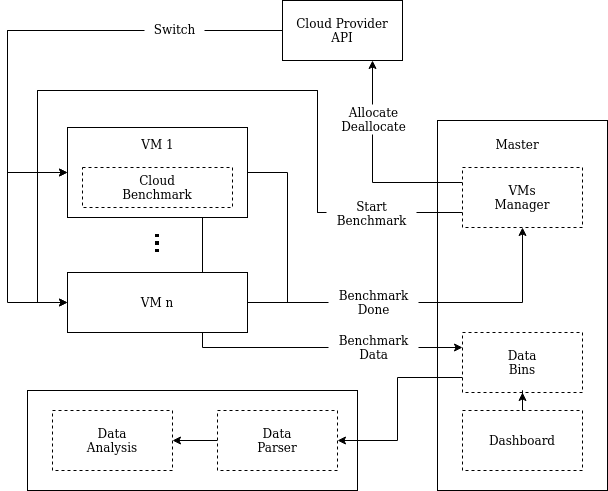
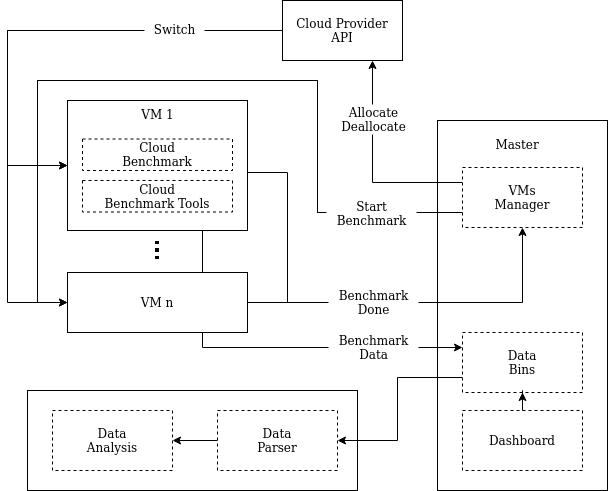
remove folders during init

Changed region(s): [[0.125, 0.2749, 0.375, 0.4888], [0.0938, 0.1833, 0.4062, 0.2444], [0.0312, 0.336, 0.125, 0.3666]]

diff --git a/README.md b/README.md
@@ -1,7 +1,8 @@
 # Cloud Performance
 ![System architecture](CloudPerformance.png)
-
 Run and collect benchmarks on the cloud
+
+This tool is composed by the following components.
 
 ### VMs manager
 - Turn on VMs
@@ -14,12 +15,14 @@ Run and collect benchmarks on the cloud
 - Analyze data
 
 ### Cloud benchmark
-Run benchmarks and send data to the data bins
-
+Run benchmarks reading a configuration from a file and save the result
 [repo](https://github.com/NicholasRasi/cloud-benchmark)
+
+### Cloud benchmark tools
+Send the result to the database and notify the vms manager
+[repo](https://github.com/NicholasRasi/cloud-benchmark-tools)
 
 ### Data bins
 Collect data about benchmarks in a database
-
 [repo](https://github.com/NicholasRasi/bin-database/)
 
